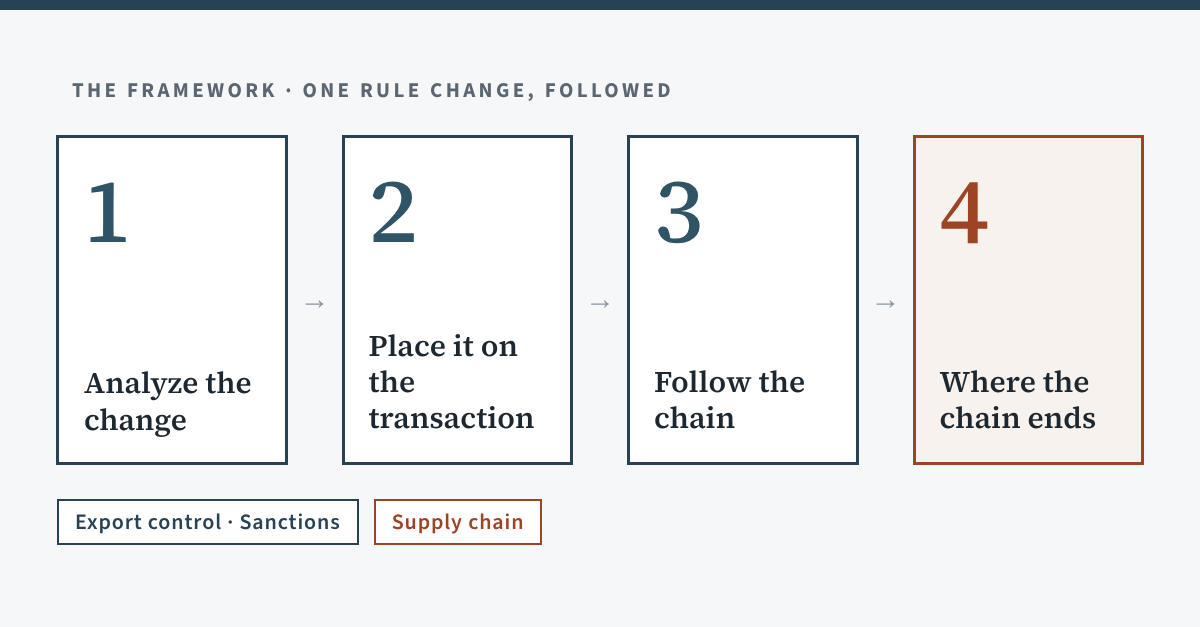
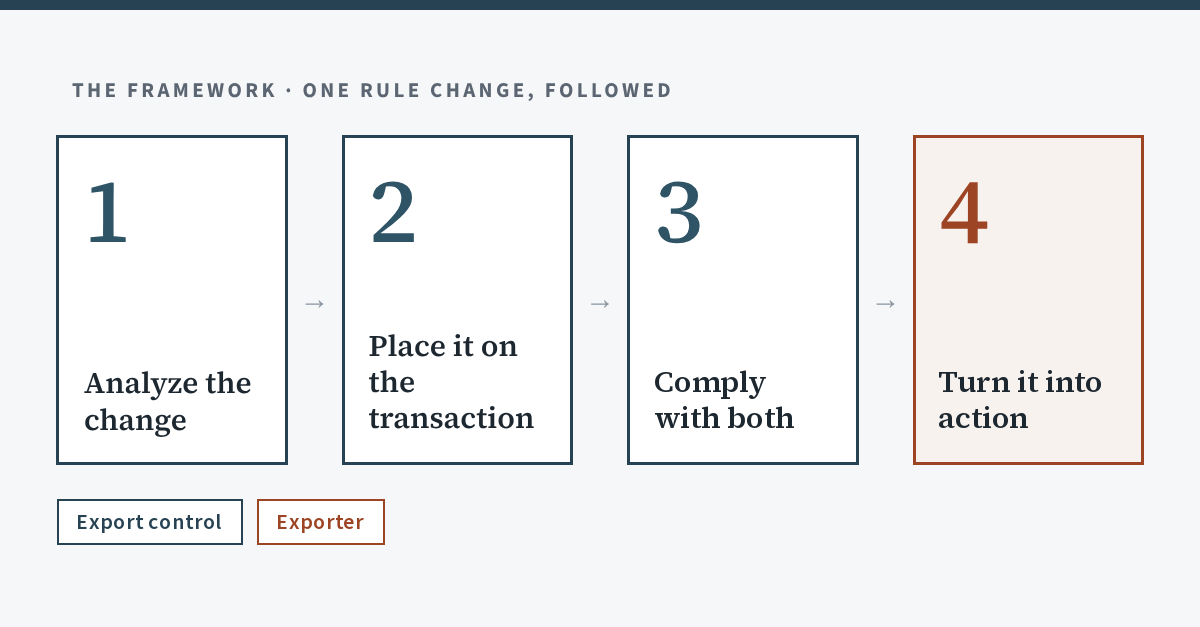
Add files via upload

Changed region(s): [[0.0617, 0.7879, 0.4625, 0.8788], [0.7708, 0.5758, 0.925, 0.697], [0.5242, 0.5758, 0.6783, 0.697]]

diff --git a/review/index.html b/review/index.html
@@ -5,14 +5,14 @@ permalink: /review/
 redirect_from:
   - /sample/
 image: /assets/og-review.png
-description: "The US Affiliates Rule, followed through one export route from Korea while the date it returns is still moving: what changed, where it lands, what it meets, and where the chain ends."
+description: "The US Affiliates Rule, followed through one export route from Korea while the date it returns is still moving: what changed, where it lands, both rules, and the exporter's action."
 ---
 
 <section class="chero">
   <div class="chero__shell">
     <p class="chero__id">US AFFILIATES RULE &middot; ONE EXPORT ROUTE</p>
     <h1 class="chero__title">The US Affiliates Rule on One Export Route: A Review</h1>
-    <p class="chero__subject">The US Affiliates Rule reaches recipients through who owns them. Its stay ends on 10 November 2026 in law; an extension to 10 January 2027 has been announced but not published. Here it is followed through one export route from Korea under both dates, leg by leg, to where it reaches the supply chain.</p>
+    <p class="chero__subject">The US Affiliates Rule reaches recipients through who owns them. In law it returns on 10 November 2026; an extension to 10 January 2027 has been announced but not published. Here it is followed through one export route from Korea under both dates, leg by leg, to where it reaches the exporter.</p>
 
     <div class="ctrace">
       <span class="ctrace__cap">THE ROUTE IN THIS REVIEW</span>
@@ -38,7 +38,7 @@ description: "The US Affiliates Rule, followed through one export route from Kor
       <tbody>
         <tr><td>Rule</td><td>Expanded: an existing set of listings reaches further. Interim final rule.</td></tr>
         <tr><td>Whose rule</td><td>A country whose rule follows the item: the US. Added by the US alone, not agreed in a regime.</td></tr>
-        <tr><td>Status and dates</td><td>Adopted and stayed. <b>Fixed in law:</b> the stay ends on 9 November 2026 and the rule returns on 10 November 2026. <b>Announced:</b> on 23 September 2026 the US and China agreed to extend the Busan arrangement to 10 January 2027, expected to carry the stay with it. No Federal Register notice of the extension found as of 1 October 2026.</td></tr>
+        <tr><td>Status and dates</td><td>Adopted and stayed. <b>Fixed in law:</b> the stay ends on 9 November 2026 and the rule returns on 10 November 2026. <b>Announced:</b> on 23 September 2026 the US and China agreed to extend the Busan arrangement to 10 January 2027, expected to carry the stay with it. No Federal Register notice of the extension found as of 12 October 2026.</td></tr>
       </tbody>
     </table>
 
@@ -65,10 +65,10 @@ description: "The US Affiliates Rule, followed through one export route from Kor
     <table class="cgap">
       <thead><tr><th>Variable</th><th>This transaction</th></tr></thead>
       <tbody>
-        <tr><td>Item</td><td>A part made for semiconductor manufacturing equipment, made in Korea. US-origin content is above the de minimis level, so the part is subject to the EAR.</td></tr>
+        <tr><td>Item</td><td>A part made for semiconductor manufacturing equipment, made in Korea. US-origin content is above the de minimis level, so the part is subject to the EAR. <b>Assumed:</b> listed as a strategic item in Korea.</td></tr>
         <tr><td>Parties</td><td>A Korean exporter. Company A is on the Entity List, needs a license for all items subject to the EAR, and has a presumption of denial; it owns 35% of C. Company B is on the Entity List, needs a license for items on the CCL, and is reviewed case by case; it owns 15% of C. C owns 50% of D. Neither C nor D is listed. <b>What can move:</b> a stake in C or D, or the listing of A, B or another shareholder.</td></tr>
         <tr><td>Route and channel</td><td>Leg 1: Korea to Country X, to C as distributor. Leg 2: Country X to Country Y, to D as end user, which happens only if the part leaves Korea. Goods only; no technology moves.</td></tr>
-        <tr><td>Timing</td><td>Order placed in October 2026. Shipment planned for December 2026. Payment due in February 2027. Read under two dates: 10 November 2026 (fixed in law) and 10 January 2027 (announced).</td></tr>
+        <tr><td>Timing</td><td>Order placed in October 2026. Shipment planned for December 2026. Read under two dates: 10 November 2026 (fixed in law) and 10 January 2027 (announced).</td></tr>
       </tbody>
     </table>
 
@@ -89,56 +89,42 @@ description: "The US Affiliates Rule, followed through one export route from Kor
         <tr><td>Just inside</td><td>Both. C at exactly 50% in aggregate, D at exactly 50%. A small sale by A, B or C moves them out.</td></tr>
         <tr><td>Just outside</td><td>A stake of 49%</td></tr>
         <tr><td>Moves mid-transaction</td><td>If A is delisted before shipment, C falls to 15% and moves out, and D with it. If another shareholder of C is listed, C stays in even if A or B sells down.</td></tr>
-        <tr><td>Depends on the date</td><td>The December shipment is inside if the rule returns on 10 November, outside if the stay runs to 10 January. The February payment falls inside under both.</td></tr>
+        <tr><td>Depends on the date</td><td>The December shipment is inside if the rule returns on 10 November, outside if the stay runs to 10 January.</td></tr>
       </tbody>
     </table>
   </div>
 </section>
 
-<section class="csection" id="chain">
+<section class="csection" id="both">
   <div class="chero__shell">
-    <p class="ceyebrow">3 &middot; Follow the chain</p>
-    <p class="cbasis"><b>Rests on</b> the text of the other rules and on this review&rsquo;s assumptions.</p>
+    <p class="ceyebrow">3 &middot; Comply with both</p>
+    <p class="cbasis"><b>Rests on</b> the text of Korea&rsquo;s strategic items rule and on this review&rsquo;s assumptions.</p>
 
-    <p class="csub">The rules it meets</p>
+    <p class="csub">Leg 1: Korea to X, read by the Korean exporter</p>
     <table class="cgap">
-      <thead><tr><th>Rule</th><th>Whose rule</th><th>Point and relation</th></tr></thead>
+      <thead><tr><th>Variable</th><th>Korea: Foreign Trade Act, Art. 19</th><th>US: Affiliates Rule</th></tr></thead>
       <tbody>
-        <tr><td>OFAC sanctions, 50% rule</td><td>US</td><td>Cumulative, on the same fact: the same A, B, C, D chain, read against the SDN List. Assumed: no party is designated.</td></tr>
-        <tr><td>Strategic items control (Foreign Trade Act, Art. 19)</td><td>Korea</td><td>Cumulative: a Korean license does not clear BIS, and a BIS license does not clear Korea. Korea has no ownership test of its own, so for C and D the relation is none.</td></tr>
+        <tr><td>Reach</td><td>The part, as a listed strategic item. No ownership test: C and D are not caught for who owns them.</td><td>C, through A and B&rsquo;s 50% in aggregate. D, through C&rsquo;s 50%.</td></tr>
+        <tr><td>Timing</td><td>Unchanged. Applies under both dates.</td><td>10 November 2026 in law. 10 January 2027 announced.</td></tr>
+        <tr><td>Separate steps</td><td>A Korean export license. Does not clear BIS.</td><td>A BIS license on A&rsquo;s terms, with a presumption of denial. Does not clear Korea.</td></tr>
+        <tr><td>Both at once</td><td colspan="2">Yes. No conflict; both licenses are needed.</td></tr>
       </tbody>
     </table>
+  </div>
+</section>
 
-    <p class="csub">Where they meet</p>
+<section class="csection" id="action">
+  <div class="chero__shell">
+    <p class="ceyebrow">4 &middot; Turn it into action</p>
+    <p class="cbasis"><b>Rests on</b> the sections above, and on the compliance guidance in the sources.</p>
     <table class="cgap">
       <thead><tr><th>Variable</th><th>In this transaction</th></tr></thead>
       <tbody>
-        <tr><td>Just outside</td><td>A 49% stake is picked up by the red flags: significant minority ownership calls for more due diligence, and Red Flag 29 applies where ownership cannot be determined.</td></tr>
-      </tbody>
-    </table>
-
-    <p class="csub">Along the timeline</p>
-    <table class="cgap">
-      <thead><tr><th>Direction</th><th>In this transaction</th></tr></thead>
-      <tbody>
-        <tr><td>Back to the contract</td><td>The order was taken in October 2026, before either date. Assumed: no clause lets the exporter suspend for a new license requirement, so the risk of delay sits with the exporter.</td></tr>
-        <tr><td>Payment</td><td>Due in February 2027, after both dates. A bank can stop it on its own screening, and ownership is read again at that point.</td></tr>
-      </tbody>
-    </table>
-  </div>
-</section>
-
-<section class="csection" id="disruption">
-  <div class="chero__shell">
-    <p class="ceyebrow">4 &middot; Where the chain ends</p>
-    <p class="cbasis"><b>Rests on</b> the chain above; the assumed supply chain for lead time, burdens and how far each spreads.</p>
-    <table class="cgap">
-      <thead><tr><th>Variable</th><th>In this transaction</th><th>Burden type</th></tr></thead>
-      <tbody>
-        <tr><td>License path</td><td>A license on A&rsquo;s terms, with a presumption of denial. Ownership must be established first, then licensing; open-ended. The BIS license on A&rsquo;s terms clears last, and may not clear at all.</td><td>Time &middot; Foregone</td></tr>
-        <tr><td>Date exposure</td><td><b>Plan on 10 November:</b> the December shipment is held now; if the extension is published, two months of sales were held for nothing. <b>Plan on 10 January:</b> if no notice is published, the December shipment leaves without a required license. The fixed date is the safer plan; the wrong guess costs sales on one side and a violation on the other.</td><td>Time &middot; Foregone</td></tr>
-        <tr><td>Response</td><td>Ship before 10 November, while the stay holds: lawful, but it moves the timing of the transaction and should be recorded. Ship to D through another consignee: D is still a party, and it starts to look like circumvention.</td><td>Labor &middot; Time</td></tr>
-        <tr><td>Counterparties</td><td>C, D, and every entity either owns 50% or more. A substitute customer meets the same ownership test.</td><td>Foregone &middot; Time</td></tr>
+        <tr><td>Checks to redo</td><td>Trace A, B, C and D tier by tier, and read the stakes again before the December shipment. If the stakes cannot be determined, Red Flag 29 applies.</td></tr>
+        <tr><td>Date exposure</td><td><b>Plan on 10 November:</b> the December shipment is held now; if the extension is published, two months of sales were held for nothing. <b>Plan on 10 January:</b> if no notice is published, the December shipment leaves without a required license. The fixed date is the safer plan; the wrong guess costs sales on one side and a violation on the other.</td></tr>
+        <tr><td>License path</td><td>A Korean license, and a BIS license on A&rsquo;s terms with a presumption of denial. Ownership must be established first, then licensing; open-ended. The BIS license clears last, and may not clear at all.</td></tr>
+        <tr><td>Response</td><td>Ship before 10 November, while the stay holds: lawful, but it moves the timing of the transaction and should be recorded. Ship to D through another consignee: D is still a party, and it starts to look like circumvention.</td></tr>
+        <tr><td>Contract and records</td><td>The order was taken in October 2026, before either date. Assumed: no clause lets the exporter suspend for a new license requirement, so the risk of delay sits with the exporter. The ownership trace and the date the firm planned on are recorded.</td></tr>
       </tbody>
     </table>
   </div>
@@ -150,7 +136,7 @@ description: "The US Affiliates Rule, followed through one export route from Kor
       <tbody>
         <tr>
           <th>Sources</th>
-          <td>US BIS Affiliates Rule IFR (RIN 0694-AK11; Federal Register 2025-19001), Application example 1: Supp. No. 4 to Part 744, introductory text; &sect;&sect; 744.11, 744.21; &sect; 748.5; Red Flag 29, Supp. No. 3 to Part 732. BIS, one-year suspension of the Affiliates Rule (Federal Register 2025-19846), stayed until 9 November 2026. US Treasury announcement, 23 September 2026, extending the Busan arrangement to 10 January 2027 (reported by Reuters). &nbsp;OFAC, Revised Guidance on Entity Property and Interests (50 percent rule). &nbsp;Korea, Foreign Trade Act, Article 19 (strategic items; Article 19(3) catch-all), and the Public Notice on Export and Import of Strategic Items.</td>
+          <td>US BIS Affiliates Rule IFR (RIN 0694-AK11; Federal Register 2025-19001), Application example 1: Supp. No. 4 to Part 744, introductory text; &sect;&sect; 744.11, 744.21; &sect; 748.5; Red Flag 29, Supp. No. 3 to Part 732. BIS, one-year suspension of the Affiliates Rule (Federal Register 2025-19846), stayed until 9 November 2026. US Treasury announcement, 23 September 2026, extending the Busan arrangement to 10 January 2027 (reported by Reuters). &nbsp;BIS, <a href="https://www.bis.gov/sites/default/files/documents/ECP_0.pdf" target="_blank" rel="noopener">Export Compliance Guidelines: The Elements of an Effective Export Compliance Program</a>. &nbsp;Korea, Foreign Trade Act, Article 19 (strategic items; Article 19(3) catch-all), and the Public Notice on Export and Import of Strategic Items.</td>
         </tr>
       </tbody>
     </table>

diff --git a/index.html b/index.html
@@ -1,7 +1,7 @@
 ---
 layout: default
 title: "Tracing a Rule Change Through One Transaction"
-description: "A rule changes, or the date it applies moves. Follow it through one transaction, leg by leg, to where it reaches the supply chain."
+description: "A rule changes, or the date it applies moves. Follow it through one transaction, leg by leg, to where it reaches the exporter."
 permalink: /
 ---
 
@@ -11,7 +11,7 @@ permalink: /
     <div class="cov-block cov-lede">
       <span class="cov-eyebrow">THE FRAMEWORK</span>
       <h1 class="cov-title">Tracing a Rule Change Through One Transaction</h1>
-      <p class="cov-standfirst">A rule changes, or the date it applies moves. Follow it through one transaction, leg by leg, to where it reaches the supply chain.</p>
+      <p class="cov-standfirst">A rule changes, or the date it applies moves. Follow it through one transaction, leg by leg, to where it reaches the exporter.</p>
       <p class="cov-standfirst"><a href="{{ '/review/' | relative_url }}">See a review: the US Affiliates Rule on one export route, with the date still moving &rarr;</a></p>
     </div>
 
@@ -33,16 +33,16 @@ permalink: /
 
       <div class="cov-mech__item">
         <p class="cov-mech__num">3</p>
-        <p class="cov-mech__name">Follow the chain</p>
-        <p class="cov-mech__note">Which export controls and sanctions it meets, and how they relate.</p>
-        <p class="cov-mech__shape">rules met &middot; just outside &middot; relation &middot; timeline</p>
+        <p class="cov-mech__name">Comply with both</p>
+        <p class="cov-mech__note">The exporter&rsquo;s own rule beside the changed one, and whether both can be met.</p>
+        <p class="cov-mech__shape">reach &middot; timing &middot; separate steps &middot; both at once</p>
       </div>
 
       <div class="cov-mech__item cov-mech__item--soft">
         <p class="cov-mech__num">4</p>
-        <p class="cov-mech__name">Where the chain ends</p>
-        <p class="cov-mech__note">The supply chain: what waits, what is lost, and what the response changes.</p>
-        <p class="cov-mech__shape">time &middot; labor &middot; foregone &middot; response &rarr; back to 2</p>
+        <p class="cov-mech__name">Turn it into action</p>
+        <p class="cov-mech__note">What the firm checks again, holds, applies for, and records.</p>
+        <p class="cov-mech__shape">checks &middot; date exposure &middot; license path &middot; response &middot; records &rarr; back to 2</p>
       </div>
 
     </div>
@@ -91,7 +91,7 @@ permalink: /
         <tr><td>Item</td><td>type (product, part, material, software, technology) &middot; origin &middot; controlled content</td></tr>
         <tr><td>Parties</td><td>participants &middot; ownership, tier by tier &middot; what can change before the deal is done</td></tr>
         <tr><td>Route and channel</td><td>legs, and whether each still happens &middot; actor &middot; terms &middot; how technology moves (file, server access, visit, remote support)</td></tr>
-        <tr><td>Timing</td><td>order &middot; shipment &middot; payment, read under each date the change sets</td></tr>
+        <tr><td>Timing</td><td>order &middot; shipment, read under each date the change sets</td></tr>
       </tbody>
     </table>
 
@@ -122,54 +122,36 @@ permalink: /
   </div>
 </section>
 
-<section class="csection" id="chain">
+<section class="csection" id="both">
   <div class="chero__shell">
-    <p class="ceyebrow">3 &middot; Follow the chain</p>
-    <p class="cbasis"><b>Rests on</b> the text of the other rules, and on the change and the transaction above.</p>
+    <p class="ceyebrow">3 &middot; Comply with both</p>
+    <p class="cbasis"><b>Rests on</b> the text of the exporter&rsquo;s own country&rsquo;s rule, and on the change and the transaction above.</p>
 
-    <p class="csub">Where they meet</p>
     <table class="cgap">
       <thead><tr><th>Variable</th><th>Question</th></tr></thead>
       <tbody>
-        <tr><td>Rules met</td><td>Which other rules read the same point, and whose are they?</td></tr>
-        <tr><td>Just outside</td><td>Which rule picks up what falls just outside the new line? Often one that turns on knowledge: a red flag or a catch-all.</td></tr>
-      </tbody>
-    </table>
-
-    <p class="csub">How rules relate</p>
-    <table class="cgap">
-      <thead><tr><th>Relation</th><th>Meaning</th></tr></thead>
-      <tbody>
-        <tr><td>Cumulative</td><td>Each answered on its own, even on the same fact; clearing one does not clear the other</td></tr>
-        <tr><td>Handoff</td><td>One rule creates the condition for the other</td></tr>
-        <tr><td>Conflict</td><td>Complying with one breaches the other</td></tr>
-        <tr><td>None</td><td>No counterpart rule reads the same point; a result too</td></tr>
-      </tbody>
-    </table>
-
-    <p class="csub">Along the timeline</p>
-    <table class="cgap">
-      <thead><tr><th>Direction</th><th>Question</th></tr></thead>
-      <tbody>
-        <tr><td>Back to the contract</td><td>What was agreed before the rule applies, and which terms put the risk on whom?</td></tr>
-        <tr><td>Payment</td><td>Can a bank stop payment on its own screening, and has a party's status or ownership changed by the time payment is due?</td></tr>
+        <tr><td>Reach</td><td>What does each rule catch on this transaction, and what does only one of them catch?</td></tr>
+        <tr><td>Timing</td><td>When does each apply? Does one move while the other holds still?</td></tr>
+        <tr><td>Separate steps</td><td>Which licenses, filings and documents does each require on its own? Does clearing one clear the other?</td></tr>
+        <tr><td>Both at once</td><td>Can the firm meet both, or does complying with one breach the other?</td></tr>
       </tbody>
     </table>
   </div>
 </section>
 
-<section class="csection" id="disruption">
+<section class="csection" id="action">
   <div class="chero__shell">
-    <p class="ceyebrow">4 &middot; Where the chain ends</p>
-    <p class="cbasis"><b>Rests on</b> the chain above, and on the firm's supply chain for the rest.</p>
+    <p class="ceyebrow">4 &middot; Turn it into action</p>
+    <p class="cbasis"><b>Rests on</b> the sections above, and on the compliance guidance in the sources.</p>
 
     <table class="cgap">
-      <thead><tr><th>Variable</th><th>Question</th><th>Burden type</th></tr></thead>
+      <thead><tr><th>Variable</th><th>Question</th></tr></thead>
       <tbody>
-        <tr><td>License path</td><td>What paths to a lawful shipment remain, how long until the firm can ship, and which rule clears last?</td><td>Labor &middot; Time &middot; Foregone</td></tr>
-        <tr><td>Date exposure</td><td>What is in progress when it takes effect? If the date is not settled, which date does the firm plan on, and what does a wrong guess cost?</td><td>Time &middot; Foregone</td></tr>
-        <tr><td>Response</td><td>Does a change of route, supplier, design or deal structure meet another rule, or start to look like circumvention?</td><td>Labor &middot; Time</td></tr>
-        <tr><td>Counterparties</td><td>Which customers and suppliers can the firm no longer deal with, including through another country's counter-measure, and does a substitute pass the same test?</td><td>Foregone &middot; Time</td></tr>
+        <tr><td>Checks to redo</td><td>Which classifications, screenings and ownership traces must be done again, and at which point before the item leaves?</td></tr>
+        <tr><td>Date exposure</td><td>What is in progress when it takes effect? If the date is not settled, which date does the firm plan on, and what does a wrong guess cost?</td></tr>
+        <tr><td>License path</td><td>What paths to a lawful shipment remain, how long until the firm can ship, and which license clears last?</td></tr>
+        <tr><td>Response</td><td>Does holding, re-timing or restructuring the shipment meet another rule, or start to look like circumvention?</td></tr>
+        <tr><td>Contract and records</td><td>What was agreed before the rule applies, and which terms put the risk on the firm? What does the firm record of each decision?</td></tr>
       </tbody>
     </table>
   </div>
